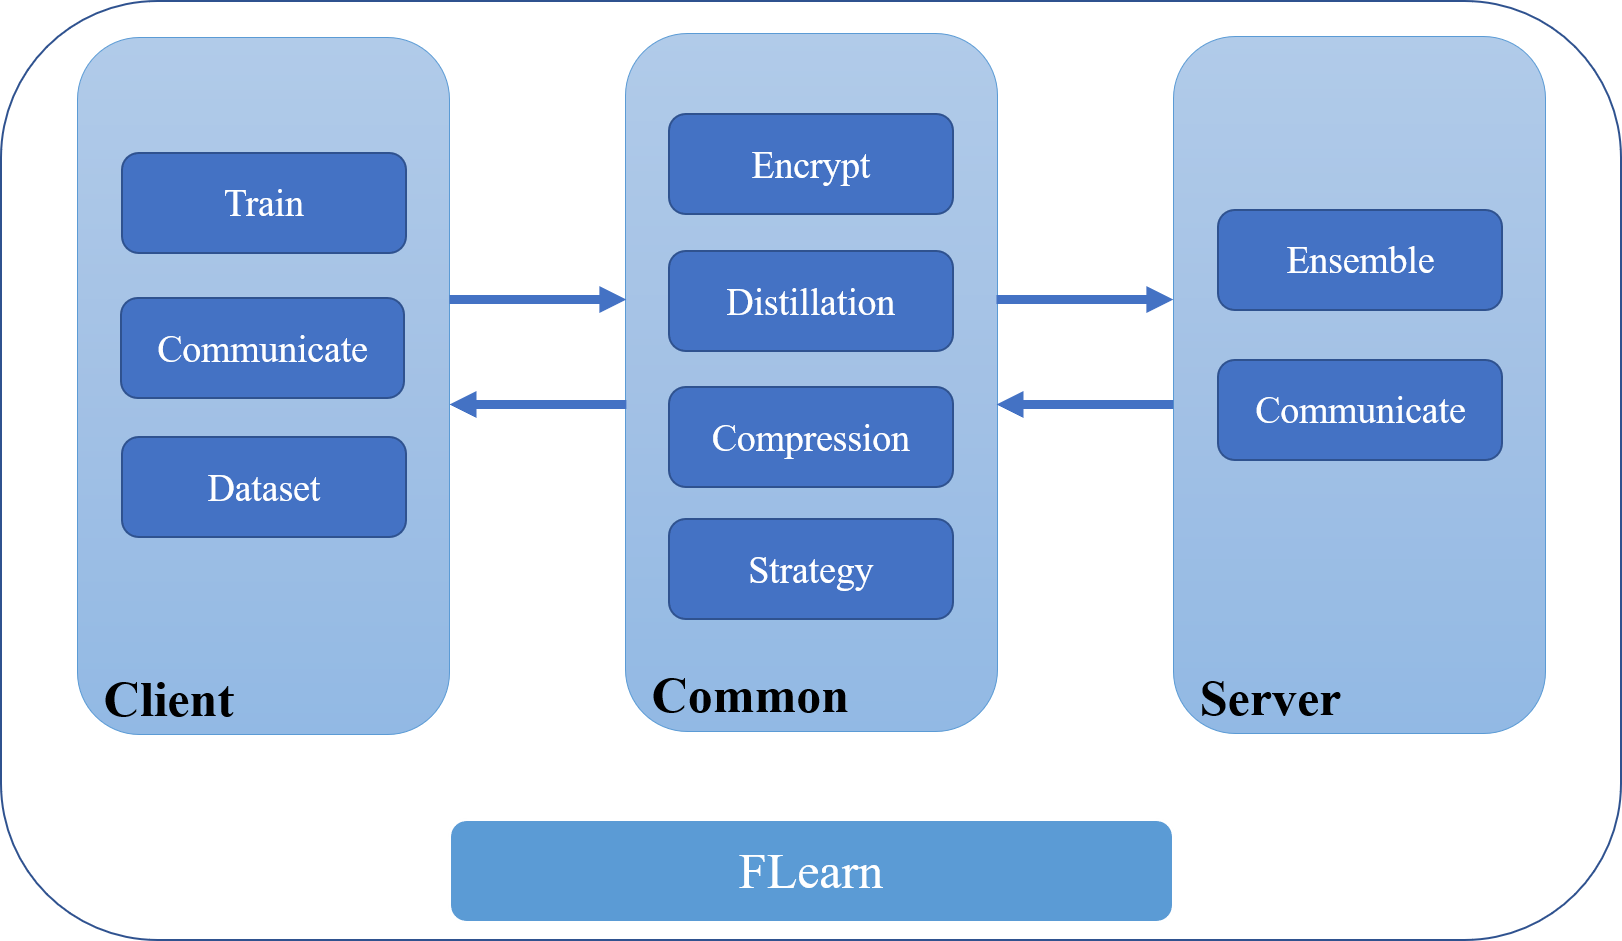
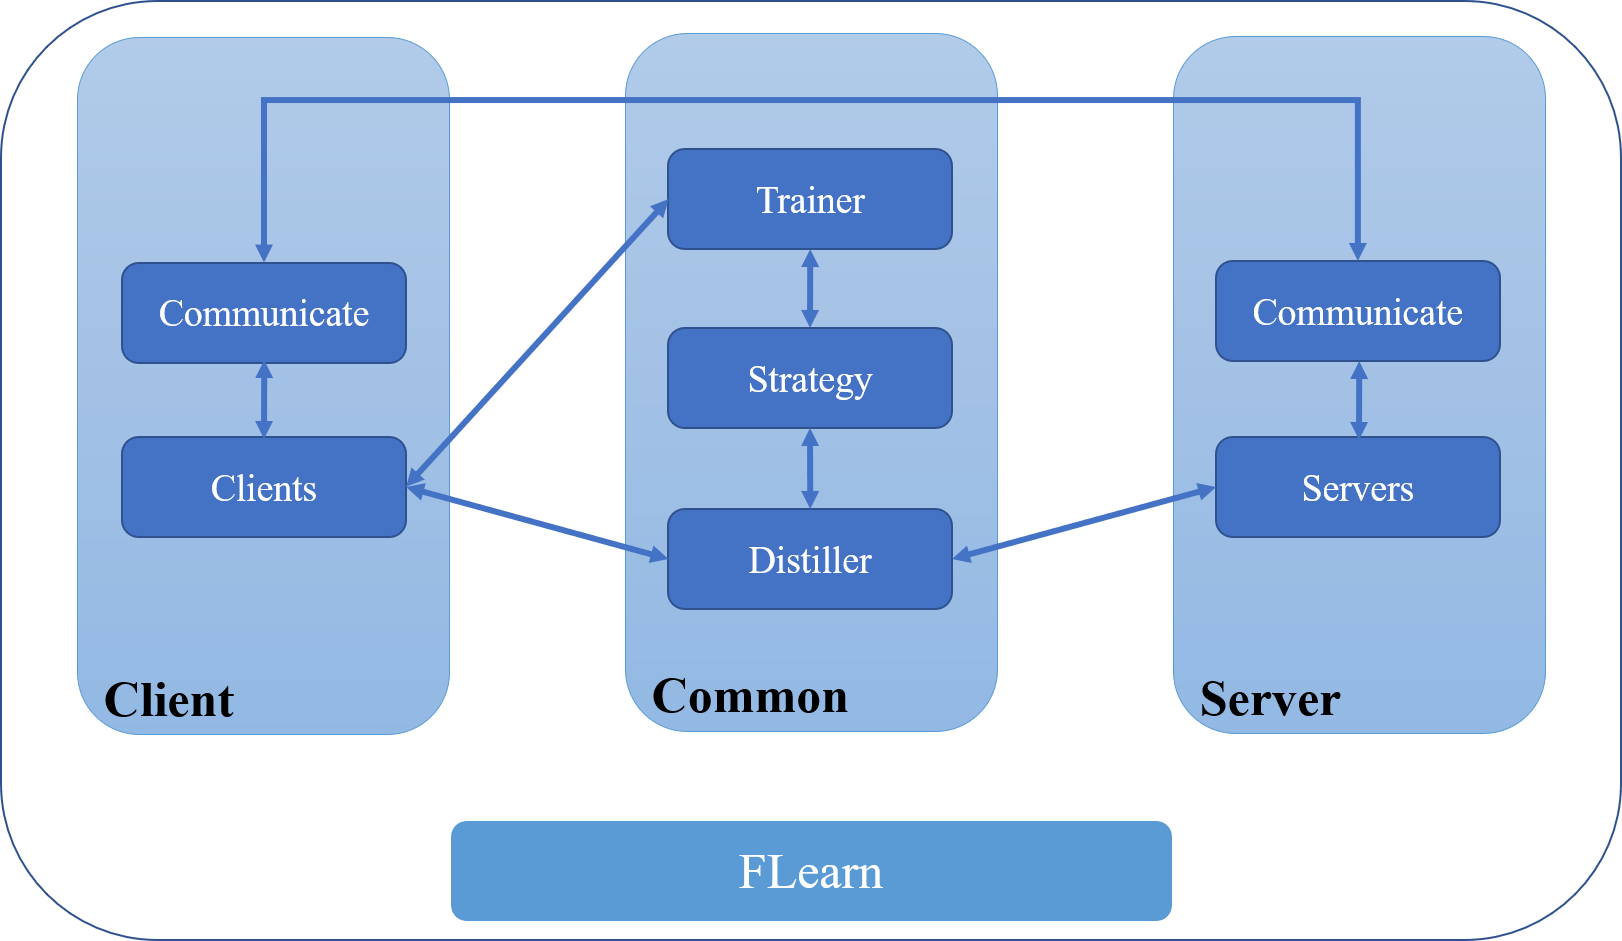
update readme framework

diff --git a/README.md b/README.md
@@ -72,4 +72,14 @@ split-learning可见[README.md](https://github.com/wnma3mz/flearn/tree/master/ex
 
 ### 工作流
 
-![CFL工作流](./imgs/CFL工作流.png)
+1. 服务器(Server)发送**训练指令**至各个客户端(Client)进行训练 (Server->Comm(S)->Comm(C)->Client)；模拟实验时，(Server->Client)
+2. Client根据配置好的训练器(Trainer)进行训练，训练完成后返回指令至Server
+3. Server发送**上传指令**至Client，Client根据配置好的策略(Strategy)，准备好上传的参数并进行上传，即Server发送指令后收到Client上传的参数
+4. Server根据预先配好的Strategy对参数进行聚合
+5. Server发送**接收指令**至Client，此时把参数发回至Client，Client根据配置好的Strategy进行接收
+6. 若Server继续发送**测试指令**至Client，Client还要对更新后的模型进行验证，并返回验证后的结果至Server。否则，Server直接进行验证
+
+P.S.
+- Trainer中一般是需要配置联邦的损失函数`fed_loss`，主要作用是为了防止灾难性遗忘
+- Distiller可以看作`fed_loss`，也可以看作聚合策略的一种，所以可能会在`Strategy`进行调用优化模型参数
+- Strategy其实可以分为Server和Client两个部分，其中Client有两个函数（上传和接收）。此处是将策略看作一个整体，即Client和Server都调用同一个Strategy
